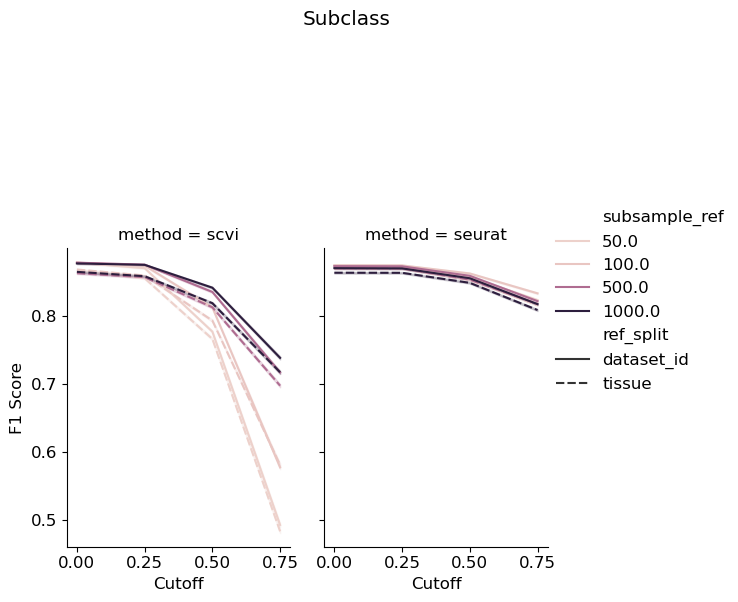
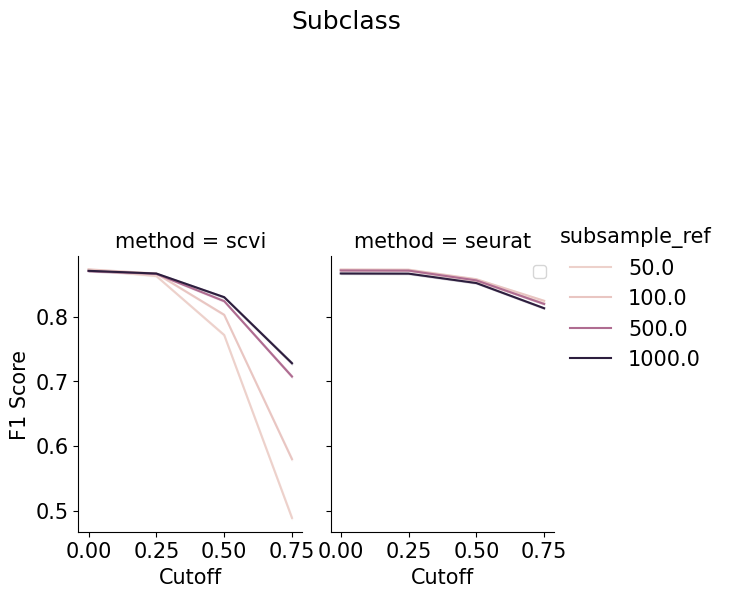
add SCT integrated results

diff --git a/bin/plot_cutoff.py b/bin/plot_cutoff.py
@@ -25,9 +25,9 @@ from sklearn.preprocessing import StandardScaler, OneHotEncoder
 # Function to parse command line arguments
 def parse_arguments():
     parser = argparse.ArgumentParser(description="Download model file based on organism, census version, and tree file.")
-    parser.add_argument('--weighted_f1_results', type=str, help="Aggregated weighted results", default = "/space/grp/rschwartz/rschwartz/evaluation_summary.nf/aggregated_results/query_500_new_hierarchy/weighted_f1_results.tsv")
+    parser.add_argument('--weighted_f1_results', type=str, help="Aggregated weighted results", default = "/space/grp/rschwartz/rschwartz/evaluation_summary.nf/aggregated_results/query_500_sctransform/weighted_f1_results.tsv")
     parser.add_argument('--vars', type=str, nargs = "+", help="Names of factor columns")
-    parser.add_argument('--label_f1_results', type=str, help="Label level f1 results", default = "/space/grp/rschwartz/rschwartz/evaluation_summary.nf/aggregated_results/query_500_new_hierarchy/label_f1_results.tsv")   
+    parser.add_argument('--label_f1_results', type=str, help="Label level f1 results", default = "/space/grp/rschwartz/rschwartz/evaluation_summary.nf/aggregated_results/query_500_sctransform/label_f1_results.tsv")   
     # deal with jupyter kernel arguments
     if __name__ == "__main__":
         known_args, _ = parser.parse_known_args()
@@ -35,25 +35,28 @@ def parse_arguments():
 
 
 def plot_line(df, x, y, hue, col, style, title, xlabel, ylabel, save_path):
-
+    # change figure size
+    plt.figure(figsize=(20, 10))
     g = sns.relplot(
         data=df, x=x, y=y,
         col=col, hue=hue, style=style,
         kind="line", height=4, aspect=0.75, legend="full"  # Adjust figure size
     )
     title = title.replace("_", " ").title()  # Capitalize and substitute "_" with " " 
-    g.figure.suptitle(title, y=1.5, x = 0.5)  # Add title above plots
+    g.figure.suptitle(title, y=1, x = 0.5)  # Add title above plots
     g.set_axis_labels(xlabel, ylabel)  # Set axis labels
     # set titles with capitalization and substitute "_" with " "
     g.set(xticks=[0,0.25,0.5,0.75])
     plt.xlabel(xlabel)
     plt.ylabel(ylabel)
+    # make legend fontzie smaller
+    plt.setp(g._legend.get_texts(), fontsize=12)  # Adjust legend font size
    # plt.tight_layout()
     plt.savefig(save_path, bbox_inches="tight")
 
  
 def main():
-    plt.rcParams.update({'font.size': 12})  # Set default font size for all plot elements
+    plt.rcParams.update({'font.size': 15})  # Set default font size for all plot elements
 
     args = parse_arguments()
     weighted_f1_results = pd.read_csv(args.weighted_f1_results, sep="\t")
@@ -101,6 +104,7 @@ def main():
                                     var_name='category', value_name='category_value')
         
         g = sns.FacetGrid(label_long, col="method", row="subsample_ref", height=6, sharey=False)
+        
             # Use map_dataframe to allow hue
         g.map_dataframe(sns.lineplot, x="cutoff", y="f1_score", hue="label")
         # Set axis labels and titles
@@ -108,11 +112,11 @@ def main():
         # capitalize titled
 
         # Adjust layout
-        g.fig.subplots_adjust(top=0.95)
+        g.fig.subplots_adjust(top=0.85)
         # Extract legend handles and labels
         handles, labels = g.axes[0, 0].get_legend_handles_labels()
         # Create a separate legend figure
-        fig_legend, ax_legend = plt.subplots(figsize=(15, 10))
+        fig_legend, ax_legend = plt.subplots(figsize=(25, 10))
         ax_legend.legend(handles, labels, loc="center", ncol=2, frameon=False, fontsize=12)
         ax_legend.axis("off")
         plt.show()
@@ -135,14 +139,14 @@ def main():
             if weighted_subset[category].dtype == "object":
                 weighted_subset[category] = weighted_subset[category].str.replace("_", " ")
 
-        #plot_line(weighted_subset, x="cutoff", y="weighted_f1", col="method", hue="reference", xlabel="Cutoff", style="ref_split",
-              #    ylabel="F1 Score", title=f"{key_value}", save_path=os.path.join(outdir,f"{key_value}_weighted_f1_score_ref.png"))
+        plot_line(weighted_subset, x="cutoff", y="weighted_f1", col="method", hue="reference", xlabel="Cutoff", style=None,
+                  ylabel="F1 Score", title=f"{key_value}", save_path=os.path.join(outdir,f"{key_value}_weighted_f1_score_ref.png"))
    
-        plot_line(weighted_subset, x="cutoff", y="weighted_f1", col="method",hue="ref_split", xlabel="Cutoff", style=None,
+        plot_line(weighted_subset, x="cutoff", y="weighted_f1", col="method",hue="reference", xlabel="Cutoff", style=None,
                   ylabel="F1 Score", title=f"{key_value}", save_path=os.path.join(outdir,f"{key_value}_weighted_f1_score_ref_split.png"))
         
-        plot_line(weighted_subset, x="cutoff", y="weighted_f1", col="method", hue="study", style=None, xlabel="Cutoff",
-                  ylabel="F1 Score", title=f"{key_value}", save_path=os.path.join(outdir,f"{key_value}_weighted_f1_score_query.png"))
+        #plot_line(weighted_subset, x="cutoff", y="weighted_f1", col="method", hue="study", style=None, xlabel="Cutoff",
+                  #ylabel="F1 Score", title=f"{key_value}", save_path=os.path.join(outdir,f"{key_value}_weighted_f1_score_query.png"))
 
         plot_line(weighted_subset, x="cutoff", y="weighted_f1", col="method", hue="region_match", style=None, xlabel="Cutoff",
                     ylabel="F1 Score", title=f"{key_value}", save_path=os.path.join(outdir,f"{key_value}_weighted_f1_score_region_match.png"))
@@ -150,19 +154,19 @@ def main():
         plot_line(weighted_subset, x="cutoff", y="weighted_f1", col="method", hue="disease_state", style=None, xlabel="Cutoff",
                   ylabel="F1 Score", title=f"{key_value}", save_path=os.path.join(outdir,f"{key_value}_weighted_f1_score_disease_state.png"))
         
-        plot_line(weighted_subset, x="cutoff", y="weighted_f1", col="method", hue="dev_stage", style=None, xlabel="Cutoff",
-                  ylabel="F1 Score", title=f"{key_value}", save_path=os.path.join(outdir,f"{key_value}_weighted_f1_score_dev_stage.png"))
+        #plot_line(weighted_subset, x="cutoff", y="weighted_f1", col="method", hue="dev_stage", style=None, xlabel="Cutoff",
+                  #ylabel="F1 Score", title=f"{key_value}", save_path=os.path.join(outdir,f"{key_value}_weighted_f1_score_dev_stage.png"))
         
-        plot_line(weighted_subset, x="cutoff", y="weighted_f1", col="method", hue="disease_state", style=None, xlabel="Cutoff",
-                  ylabel="F1 Score", title=f"{key_value}", save_path=os.path.join(outdir,f"{key_value}_weighted_f1_score_disease_state.png"))
+        #plot_line(weighted_subset, x="cutoff", y="weighted_f1", col="method", hue="disease_state", style=None, xlabel="Cutoff",
+                  #ylabel="F1 Score", title=f"{key_value}", save_path=os.path.join(outdir,f"{key_value}_weighted_f1_score_disease_state.png"))
         
-        plot_line(weighted_subset, x="cutoff", y="weighted_f1", col="method", hue="sex", style=None, xlabel="Cutoff",
-                  ylabel="F1 Score", title=f"{key_value}", save_path=os.path.join(outdir,f"{key_value}_weighted_f1_score_sex.png"))
+        #plot_line(weighted_subset, x="cutoff", y="weighted_f1", col="method", hue="sex", style=None, xlabel="Cutoff",
+                  #ylabel="F1 Score", title=f"{key_value}", save_path=os.path.join(outdir,f"{key_value}_weighted_f1_score_sex.png"))
         
-        #plot_line(weighted_subset, x="cutoff", y="weighted_f1", col="method", hue="query_region", style=None, xlabel="Cutoff",
-         #         ylabel="F1 Score", title=f"{key_value}", save_path=os.path.join(outdir,f"{key_value}_weighted_f1_score_query_region.png"))
+        ##plot_line(weighted_subset, x="cutoff", y="weighted_f1", col="method", hue="query_region", style=None, xlabel="Cutoff",
+         ##         ylabel="F1 Score", title=f"{key_value}", save_path=os.path.join(outdir,f"{key_value}_weighted_f1_score_query_region.png"))
         
-        plot_line(weighted_subset, x="cutoff", y="weighted_f1", col="method", hue="subsample_ref", style="ref_split", xlabel="Cutoff",
+        plot_line(weighted_subset, x="cutoff", y="weighted_f1", col="method", hue="subsample_ref", xlabel="Cutoff", style=None,
                   ylabel="F1 Score", title=f"{key_value}", save_path=os.path.join(outdir,f"{key_value}_weighted_f1_score_subsample_ref.png"))
         
 

diff --git a/bin/plot_comptime.py b/bin/plot_comptime.py
@@ -100,9 +100,12 @@ def main():
     reports["peak virtual memory (GB)"] = reports["peak_vmem"].astype(str).str.split(" ", expand=True)[0].replace("-",np.nan).astype(float) / 1024  # Convert to GB
     # plot boxplots for duration, realtime and %cpu for rows wehre name==rfPredict vs name==predictSeurat
     # use a facetmap to plot the boxplots
-    trace_subset = reports[reports["name"].isin(["rfPredict", "predictSeurat"])]
+    processes = ["rfPredict", "predictSeurat", "mapQuery","queryProcessSeurat","refProcessSeurat"]
+    trace_subset = reports[reports["name"].isin(processes)]
     # replace rfPredict with SCVI Random Forest and predictSeurat with Seurat TransferData
-    trace_subset["name"] = trace_subset["name"].replace({"rfPredict": "SCVI Random Forest", "predictSeurat": "Seurat TransferData"})
+    trace_subset["name"] = trace_subset["name"].replace({"rfPredict": "SCVI Random Forest", "predictSeurat": "Seurat TransferData", 
+                                                         "mapQuery": "SCVI pre-process query", "queryProcessSeurat": "Seurat pre-process query", 
+                                                         "refProcessSeurat": "Seurat pre-process reference"})
     #get median and mean for each method
    
     # turn this into a file
@@ -134,13 +137,14 @@ def main():
         
        
     # Melt data for FacetGrid
-    trace_melted = trace_subset.melt(id_vars=["name","subsample_ref","subsample_query","cutoff"], value_vars=["duration (hours)","%cpu"], var_name="Metric", value_name="Value")
+    trace_melted = trace_subset.melt(id_vars=["name","subsample_ref","subsample_query","cutoff"], 
+                                     value_vars=["duration (hours)","%cpu"], var_name="Metric", value_name="Value")
 
     # Create FacetGrid
     g = sns.FacetGrid(trace_melted, col="Metric", sharey=False, height=5, aspect=1)
 
     # Map the violin plot while keeping 'subsample_ref' and 'subsample_query' in the hue
-    g.map_dataframe(sns.stripplot, x="name", y="Value", hue="subsample_ref",palette="Set3", order=["SCVI Random Forest", "Seurat TransferData"], dodge=True, jitter=True, legend=True)
+    g.map_dataframe(sns.stripplot, x="name", y="Value", hue="subsample_ref",palette="Set3", dodge=True, jitter=True, legend=True)
     # set xlabels 90 degree rotation
     g.set_xticklabels(rotation=90)
     # Adjust legend

diff --git a/bin/plot_contrasts.py b/bin/plot_contrasts.py
@@ -33,8 +33,8 @@ from collections import defaultdict
 # Function to parse command line arguments
 def parse_arguments():
   parser = argparse.ArgumentParser(description="Plot contrasts for referend:method and save mean and SD of F1 scores for each contrast.")
-  parser.add_argument('--f1_results', type=str, default="/space/grp/rschwartz/rschwartz/evaluation_summary.nf/aggregated_results/query_500_lognormalize/weighted_f1_results.tsv", help="Aggregated weighted results")
-  parser.add_argument('--model_summary_coefs', type=str, default="/space/grp/rschwartz/rschwartz/evaluation_summary.nf/aggregated_results/query_500_lognormalize/model_eval/weighted_model_summary_coefs_combined.tsv", help="Model summary coefficients")
+  parser.add_argument('--f1_results', type=str, default="/space/grp/rschwartz/rschwartz/evaluation_summary.nf/aggregated_results/query_500_sctransform/weighted_f1_results.tsv", help="Aggregated weighted results")
+  parser.add_argument('--model_summary_coefs', type=str, default="/space/grp/rschwartz/rschwartz/evaluation_summary.nf/aggregated_results/query_500_sctransform/model_eval/weighted_model_summary_coefs_combined.tsv", help="Model summary coefficients")
   parser.add_argument('--type', type=str, default="weighted", help="Type of f1 results")
   if __name__ == "__main__":
       known_args, _ = parser.parse_known_args()

diff --git a/bin/aggregate_results.py b/bin/aggregate_results.py
@@ -245,6 +245,8 @@ def main():
     
     # Drop duplicates, but exclude 'ref_split' column (so duplicates in 'ref_split' are allowed)
     weighted_f1_results = f1_df.drop(columns=label_columns)
+    # drop duplicates
+    weighted_f1_results = weighted_f1_results.drop_duplicates()
     # Keep only rows where 'weighted_f1' is not null
     weighted_f1_results = weighted_f1_results[weighted_f1_results["weighted_f1"].notnull()] 
     weighted_f1_results.to_csv("weighted_f1_results.tsv", sep="\t", index=False)
